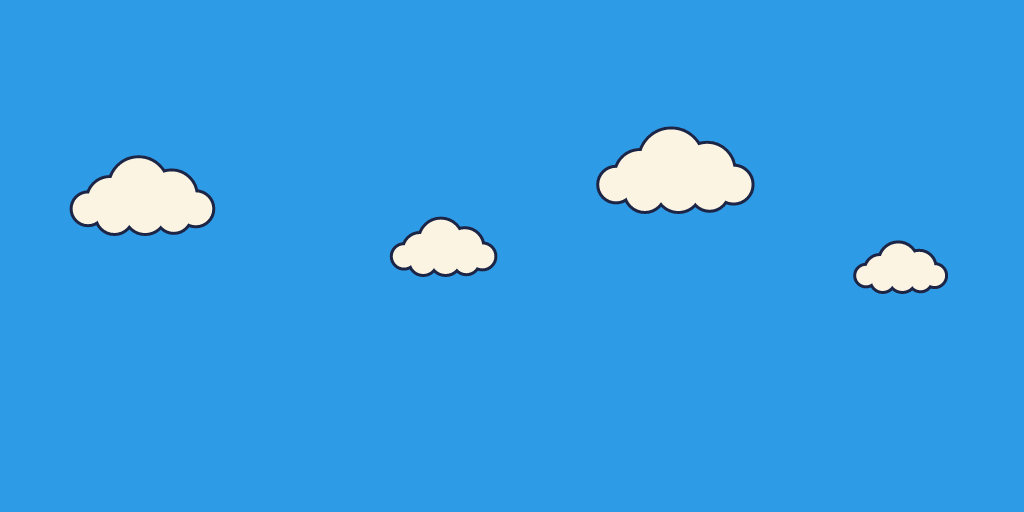
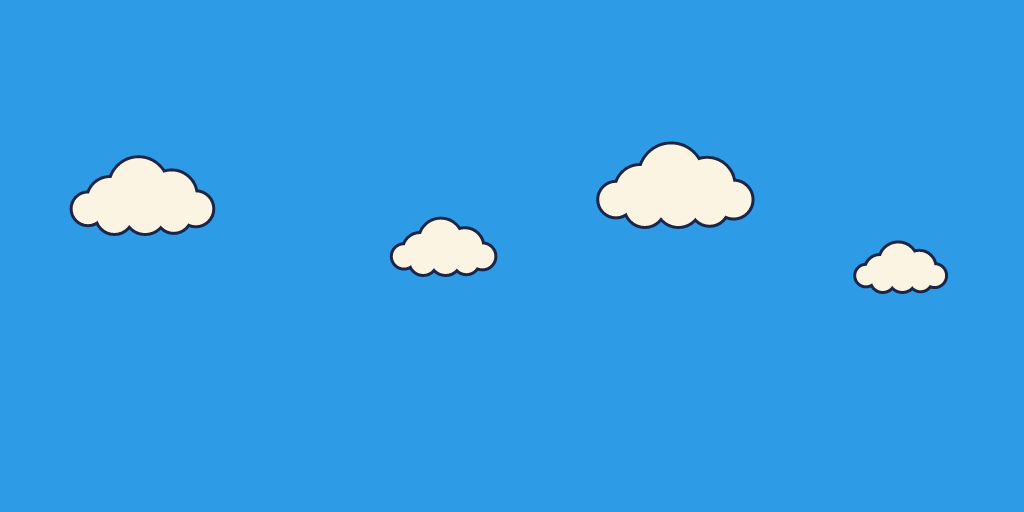
feat(art): crop the campus skyline from the Sprint campus illustration

Changed region(s): [[0.5625, 0.25, 0.75, 0.4688]]

diff --git a/tools/render-campus-art.js b/tools/render-campus-art.js
@@ -1,12 +1,19 @@
 // Draws the shared campus backdrop layers in the "Chạy trốn thể chất" flat cartoon style:
 // ink outlines, flat colours, no gradients. Palette shared with render-football-goalview-art.js.
-// Run: TMP_NODE="$TEMP/kma-resvg"; npm install --prefix "$TMP_NODE" @resvg/resvg-js
+// CampusSkyline is not drawn: it is cropped (pixels unchanged) from the Sprint campus illustration
+// Assets/_Project/Art/Environments/Sprint/Campus.png to its opaque bounding box (alpha > 8; the source has alpha 1 noise).
+// Run: TMP_NODE="$TEMP/kma-resvg"; npm install --prefix "$TMP_NODE" @resvg/resvg-js pngjs
 //      NODE_PATH="$TMP_NODE/node_modules" node tools/render-campus-art.js Assets/_Project/Art/Environments/Campus
 const fs = require('fs');
 const path = require('path');
 const { Resvg } = require('@resvg/resvg-js');
+const { PNG } = require('pngjs');
 
 const OUT = process.argv[2];
+if (!OUT) {
+  console.error('Usage: node tools/render-campus-art.js <output-dir>   (e.g. Assets/_Project/Art/Environments/Campus)');
+  process.exit(2);
+}
 const C = {
   ink: '#1c2546', sky: '#2e9be6', cloud: '#fbf4e2', tree: '#5cb346', treeDark: '#3f8f3a',
   seatBlue: '#2f6fd1', seatYellow: '#f4c531', stand: '#efe6cf', wall: '#fbf4e2', coral: '#e85a48',
@@ -28,65 +35,7 @@ const svg = (w, h, body) =>
 function sky() {
   // Clouds sit between 30 % and 60 % of the height; none crosses the left/right edge so it tiles.
   return svg(1024, 512, `<rect width="1024" height="512" fill="${C.sky}"/>` +
-    cloud(110, 200, 1.1) + cloud(420, 250, .8) + cloud(640, 175, 1.2) + cloud(880, 270, .7));
-}
-
-function tree(x, base, r, dark) {
-  return `<rect x="${x - 5}" y="${base - r * .9}" width="10" height="${r * .9}" fill="#8a5a36" stroke="${C.ink}" stroke-width="3"/>` +
-    blob([[x, base - r * 1.2, r], [x - r * .6, base - r * .8, r * .7], [x + r * .6, base - r * .8, r * .7]],
-      dark ? C.treeDark : C.tree, 3);
-}
-
-function stand(x, base, w) {
-  let rows = '';
-  for (let i = 0; i < 4; i++)
-    rows += `<rect x="${x + 6}" y="${base - 18 - i * 14}" width="${w - 12}" height="9" fill="${i % 2 ? C.seatYellow : C.seatBlue}"/>`;
-  const light = `<rect x="${x + w - 16}" y="${base - 150}" width="8" height="90" fill="${C.ink}"/>` +
-    rect(x + w - 34, base - 172, 44, 26, C.seatYellow, 3);
-  return rect(x, base - 76, w, 76, C.stand) + rows +
-    `<path d="M${x - 6} ${base - 76}H${x + w + 6}L${x + w - 10} ${base - 92}H${x + 10}Z" fill="${C.treeDark}" stroke="${C.ink}" stroke-width="4" stroke-linejoin="round"/>` + light;
-}
-
-function mainBuilding(x, base) {
-  const w = 520, h = 175;
-  let windows = '';
-  for (let row = 0; row < 5; row++)
-    for (let col = 0; col < 8; col++) {
-      if (col === 3 || col === 4) continue; // atrium column
-      windows += rect(x + 24 + col * 60, base - h + 14 + row * 31, 40, 20, C.glass, 3);
-    }
-  const atrium = rect(x + 200, base - h - 24, 120, h + 24, C.glass) +
-    `<path d="M${x + 230} ${base - h - 24}V${base}M${x + 260} ${base - h - 24}V${base}M${x + 290} ${base - h - 24}V${base}" stroke="${C.ink}" stroke-width="3"/>`;
-  const frame = rect(x - 8, base - h - 8, w + 16, 16, C.brick) + rect(x + 190, base - h - 38, 140, 14, C.brick);
-  const door = rect(x + 232, base - 44, 56, 44, C.ink, 2);
-  const flag = `<rect x="${x + 258}" y="${base - h - 100}" width="5" height="62" fill="${C.ink}"/>` +
-    `<path d="M${x + 263} ${base - h - 98}L${x + 305} ${base - h - 87}L${x + 263} ${base - h - 76}Z" fill="${C.yellow}" stroke="${C.ink}" stroke-width="3" stroke-linejoin="round"/>`;
-  return rect(x, base - h, w, h, C.wall) + windows + atrium + frame + door + flag;
-}
-
-function hall(x, base) {
-  const w = 300, h = 110;
-  let windows = '';
-  for (let i = 0; i < 5; i++) windows += rect(x + 24 + i * 54, base - 70, 38, 26, C.glass, 3);
-  return rect(x, base - h, w, h, C.wall) +
-    `<path d="M${x - 8} ${base - h}Q${x + w / 2} ${base - h - 70} ${x + w + 8} ${base - h}Z" fill="${C.brick}" stroke="${C.ink}" stroke-width="4" stroke-linejoin="round"/>` +
-    windows;
-}
-
-function skyline() {
-  const W = 2048, H = 320, base = H - 24;
-  let body = '';
-  for (const [x, r, d] of [[40, 34, 0], [100, 44, 1], [170, 30, 0]]) body += tree(x, base, r, d);
-  body += stand(210, base, 260);
-  for (const [x, r, d] of [[520, 40, 1], [580, 30, 0]]) body += tree(x, base, r, d);
-  body += mainBuilding(640, base);
-  for (const [x, r, d] of [[1200, 36, 0], [1260, 46, 1]]) body += tree(x, base, r, d);
-  body += hall(1310, base);
-  for (const [x, r, d] of [[1650, 30, 0]]) body += tree(x, base, r, d);
-  body += stand(1690, base, 260);
-  for (const [x, r, d] of [[1990, 40, 1]]) body += tree(x, base, r, d);
-  const hedge = `<rect x="-4" y="${base}" width="${W + 8}" height="28" fill="${C.grass}" stroke="${C.ink}" stroke-width="4"/>`;
-  return svg(W, H, body + hedge);
+    cloud(110, 200, 1.1) + cloud(420, 250, .8) + cloud(640, 190, 1.2) + cloud(880, 270, .7));
 }
 
 const pixel = () => svg(8, 8, `<rect width="8" height="8" fill="${C.white}"/>`);
@@ -107,7 +56,7 @@ function volleyNet() {
   return svg(W, H, mesh + post(0) + post(H - 40));
 }
 
-const layers = { CampusSky: sky, CampusSkyline: skyline, CampusPixel: pixel, SprintTrack: sprintTrack, VolleyNet: volleyNet };
+const layers = { CampusSky: sky, CampusPixel: pixel, SprintTrack: sprintTrack, VolleyNet: volleyNet };
 fs.mkdirSync(OUT, { recursive: true });
 for (const [name, make] of Object.entries(layers)) {
   const image = make();
@@ -116,4 +65,18 @@ for (const [name, make] of Object.entries(layers)) {
   const png = new Resvg(image, { fitTo: { mode: 'width', value: width } }).render().asPng();
   fs.writeFileSync(path.join(OUT, name + '.png'), png);
   console.log(name, width);
+}
+
+// Skyline: crop the Sprint campus illustration to its opaque bounding box (alpha > 8; the source has alpha 1 noise).
+{
+  const src = PNG.sync.read(fs.readFileSync(path.join(__dirname, '..', 'Assets/_Project/Art/Environments/Sprint/Campus.png')));
+  let x0 = src.width, y0 = src.height, x1 = -1, y1 = -1;
+  for (let y = 0; y < src.height; y++)
+    for (let x = 0; x < src.width; x++)
+      if (src.data[(y * src.width + x) * 4 + 3] > 8) { x0 = Math.min(x0, x); x1 = Math.max(x1, x); y0 = Math.min(y0, y); y1 = Math.max(y1, y); }
+  const w = x1 - x0 + 1, h = y1 - y0 + 1;
+  const out = new PNG({ width: w, height: h });
+  PNG.bitblt(src, out, x0, y0, w, h, 0, 0);
+  fs.writeFileSync(path.join(OUT, 'CampusSkyline.png'), PNG.sync.write(out));
+  console.log(`CampusSkyline ${w}x${h} (crop x ${x0}-${x1}, y ${y0}-${y1} of ${src.width}x${src.height})`);
 }

diff --git a/Assets/_Project/CREDITS.md b/Assets/_Project/CREDITS.md
@@ -89,6 +89,7 @@ style by `tools/render-journey-emoji.js` and packed into a 360x216 atlas
 
 ## Project-generated campus backdrop
 
-`Art/Environments/Campus/` (sky, skyline with the KMA main building, track, volleyball net and a
+`Art/Environments/Campus/` (sky, track, volleyball net and a
 white pixel for tinted quads) is drawn by `tools/render-campus-art.js` as SVG and rasterised with
-`@resvg/resvg-js` on 2026-10-06. Same palette and ink outline as the Football GoalView art.
+`@resvg/resvg-js` on 2026-10-06. Same palette and ink outline as the Football GoalView art. `CampusSkyline.png` is not drawn: it is
+cropped, pixels unchanged, from the Sprint campus illustration `Art/Environments/Sprint/Campus.png`.
